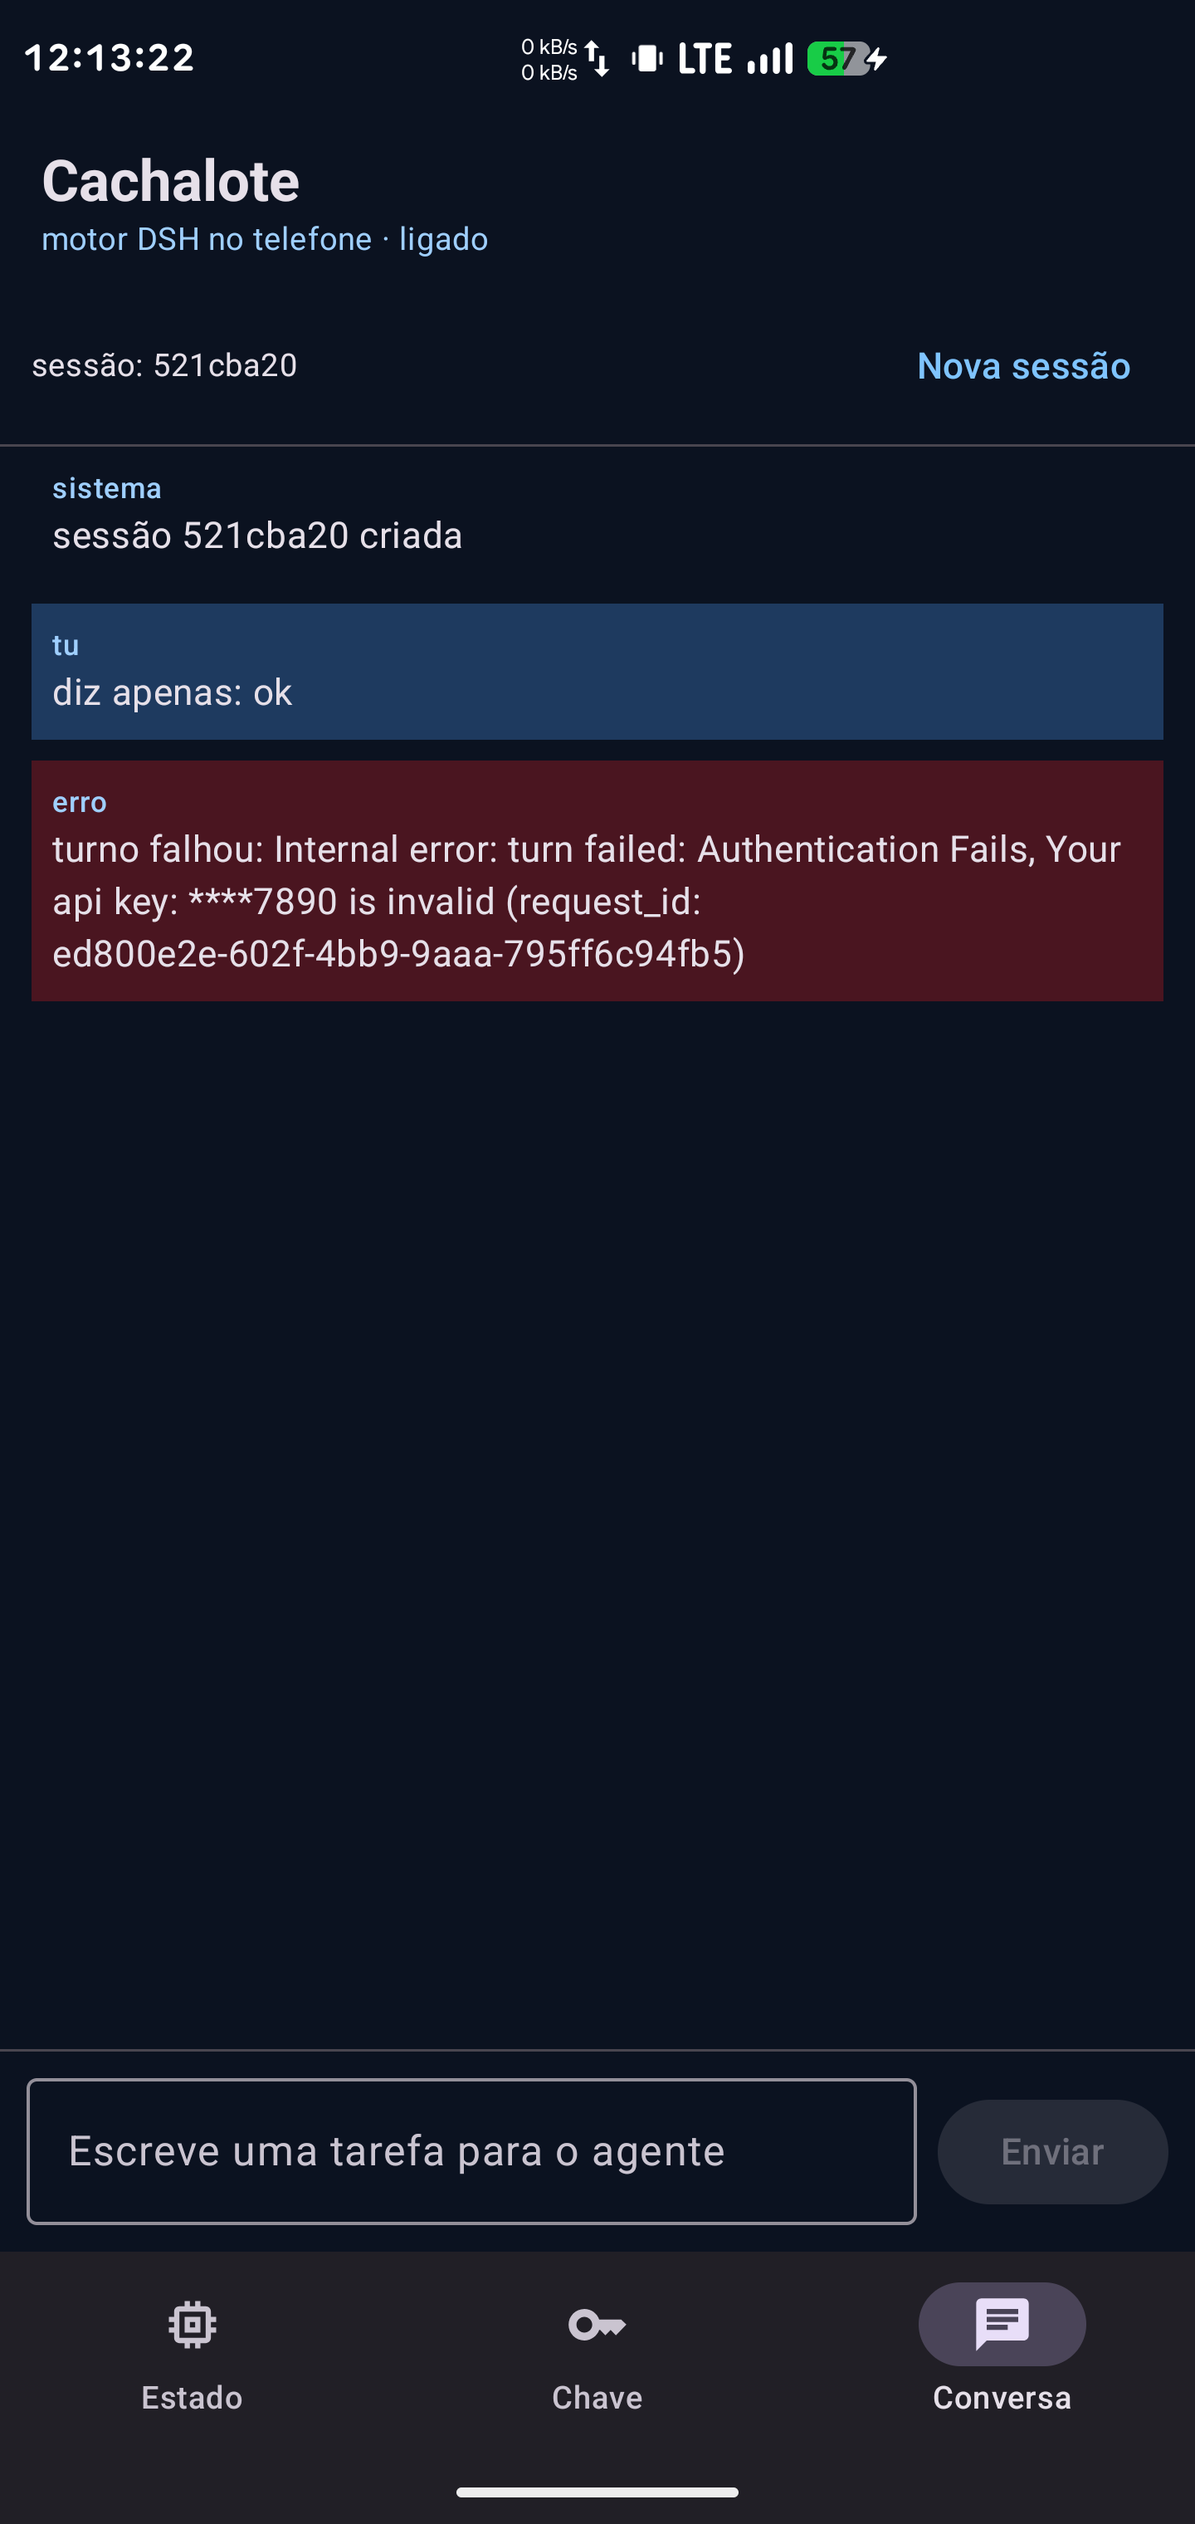
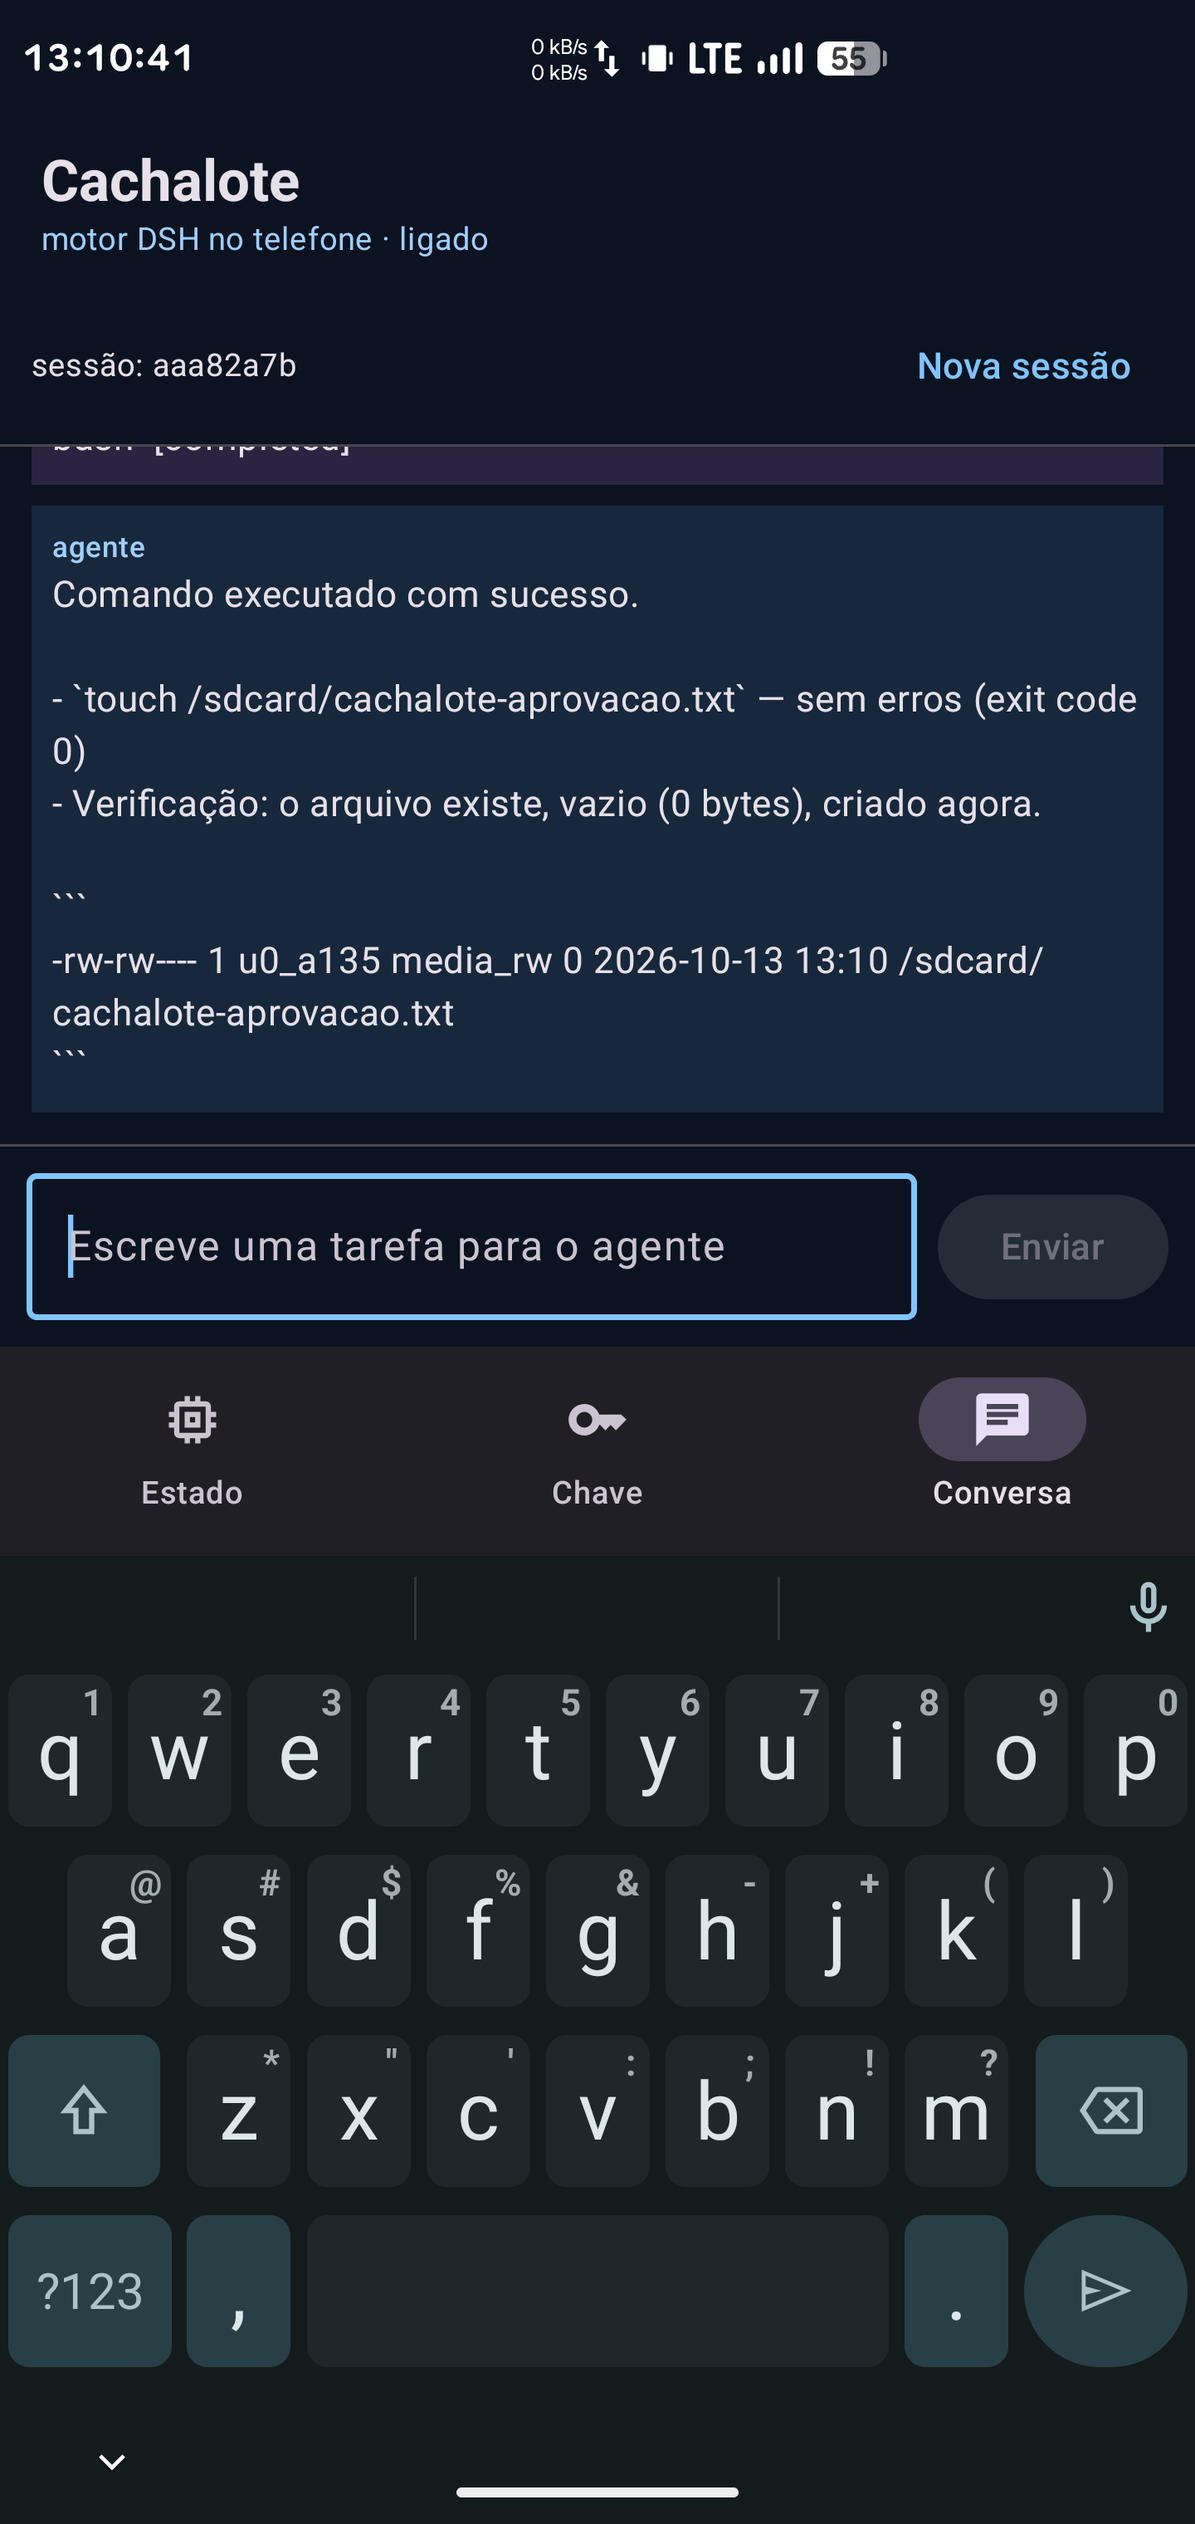
F3 (inicio): aprovacoes na UI, teclado e achados de seguranca
- cliente: distinguir pedidos do motor (id+method) de respostas — os pedidos de
  aprovacao eram descartados em silencio e o turno ficava pendurado
- UI: dialogo de autorizacao com as opcoes vindas do motor + botao Parar (session/cancel)
- fix UX: imePadding/setDecorFitsSystemWindows (o botao Enviar ficava sob o teclado) e
  Enter/imeAction=Send a enviar
- verificacao real: sessao criada, ferramenta bash executada, ficheiro criado em /sdcard
- achado: no Android as aprovacoes de bash nao disparam (sem sandbox que falhe nao ha
  escalonamento) — reforca D10; a barreira real tem de ser na ponte host.*
- knowledge-android.md: itens 50-52

diff --git a/app/app/src/main/java/dev/ricardopimentel/cachalote/MainActivity.kt b/app/app/src/main/java/dev/ricardopimentel/cachalote/MainActivity.kt
@@ -12,6 +12,8 @@ import androidx.compose.foundation.layout.Spacer
 import androidx.compose.foundation.layout.fillMaxSize
 import androidx.compose.foundation.layout.fillMaxWidth
 import androidx.compose.foundation.layout.height
+import androidx.compose.foundation.layout.heightIn
+import androidx.compose.foundation.layout.imePadding
 import androidx.compose.foundation.layout.padding
 import androidx.compose.foundation.layout.width
 import androidx.compose.foundation.lazy.LazyColumn
@@ -21,10 +23,12 @@ import androidx.compose.foundation.rememberScrollState
 import androidx.compose.foundation.text.KeyboardActions
 import androidx.compose.foundation.text.KeyboardOptions
 import androidx.compose.foundation.verticalScroll
+import androidx.compose.material3.Text
 import androidx.compose.material.icons.Icons
 import androidx.compose.material.icons.filled.Chat
 import androidx.compose.material.icons.filled.Key
 import androidx.compose.material.icons.filled.Memory
+import androidx.compose.material3.AlertDialog
 import androidx.compose.material3.Button
 import androidx.compose.material3.Card
 import androidx.compose.material3.CardDefaults
@@ -58,12 +62,16 @@ import androidx.compose.ui.text.font.FontWeight
 import androidx.compose.ui.text.input.ImeAction
 import androidx.compose.ui.text.input.PasswordVisualTransformation
 import androidx.compose.ui.text.input.VisualTransformation
+import androidx.compose.ui.unit.max
 import androidx.compose.ui.unit.dp
 import androidx.lifecycle.viewmodel.compose.viewModel
 
 class MainActivity : ComponentActivity() {
     override fun onCreate(savedInstanceState: Bundle?) {
         super.onCreate(savedInstanceState)
+        // Sem isto, o Compose desenha por baixo do teclado e o botão Enviar fica
+        // inalcançável com o teclado aberto (apanhado em teste de UI).
+        androidx.core.view.WindowCompat.setDecorFitsSystemWindows(window, false)
         setContent { CachaloteApp() }
     }
 }
@@ -85,6 +93,7 @@ fun CachaloteApp() {
             LaunchedEffect(Unit) { vm.refreshStatus() }
 
             Scaffold(
+                modifier = Modifier.imePadding(),
                 bottomBar = {
                     NavigationBar {
                         NavigationBarItem(
@@ -110,6 +119,7 @@ fun CachaloteApp() {
             ) { pad ->
                 Column(modifier = Modifier.padding(pad).fillMaxSize()) {
                     Header(vm, busy = vm.busy)
+                    vm.approval?.let { ap -> ApprovalDialog(vm, ap) }
                     if (vm.error.isNotBlank()) {
                         Card(
                             modifier = Modifier.fillMaxWidth().padding(12.dp),
@@ -145,6 +155,44 @@ private fun Header(vm: MainViewModel, busy: Boolean) {
         }
         if (busy) CircularProgressIndicator(modifier = Modifier.width(22.dp).height(22.dp), strokeWidth = 2.dp)
     }
+}
+
+/**
+ * O motor pede autorização antes de uma operação sensível (ACP `session/request_permission`).
+ * As opções vêm do motor (permitir uma vez / sempre / recusar); mostramo-las tal como vêm.
+ */
+@Composable
+private fun ApprovalDialog(vm: MainViewModel, ap: PendingApproval) {
+    AlertDialog(
+        onDismissRequest = { vm.answerApproval(null) },
+        title = { Text("Autorização") },
+        text = {
+            Column {
+                Text(ap.title, fontWeight = FontWeight.SemiBold)
+                if (ap.detail.isNotBlank()) {
+                    Spacer(Modifier.height(8.dp))
+                    Text(
+                        ap.detail,
+                        fontFamily = FontFamily.Monospace,
+                        style = MaterialTheme.typography.bodySmall,
+                        modifier = Modifier.heightIn(max = 260.dp).verticalScroll(rememberScrollState()),
+                    )
+                }
+            }
+        },
+        confirmButton = {
+            Column(verticalArrangement = Arrangement.spacedBy(6.dp)) {
+                ap.options.forEach { (optionId, name) ->
+                    Button(onClick = { vm.answerApproval(optionId) }, modifier = Modifier.fillMaxWidth()) {
+                        Text(name)
+                    }
+                }
+            }
+        },
+        dismissButton = {
+            TextButton(onClick = { vm.answerApproval(null) }) { Text("Recusar o turno") }
+        },
+    )
 }
 
 @Composable
@@ -316,12 +364,21 @@ private fun ChatScreen(vm: MainViewModel) {
                 placeholder = { Text("Escreve uma tarefa para o agente") },
                 modifier = Modifier.weight(1f),
                 maxLines = 4,
+                keyboardOptions = KeyboardOptions(imeAction = ImeAction.Send),
+                keyboardActions = KeyboardActions(onSend = {
+                    val t = input; input = ""; if (t.isNotBlank()) vm.send(t)
+                }),
             )
             Spacer(Modifier.width(8.dp))
-            Button(
-                onClick = { val t = input; input = ""; vm.send(t) },
-                enabled = !vm.busy && input.isNotBlank(),
-            ) { Text("Enviar") }
+            Column {
+                Button(
+                    onClick = { val t = input; input = ""; vm.send(t) },
+                    enabled = !vm.busy && input.isNotBlank(),
+                ) { Text("Enviar") }
+                if (vm.busy) {
+                    TextButton(onClick = { vm.cancelTurn() }) { Text("Parar") }
+                }
+            }
         }
     }
 }

diff --git a/app/app/src/main/java/dev/ricardopimentel/cachalote/MainViewModel.kt b/app/app/src/main/java/dev/ricardopimentel/cachalote/MainViewModel.kt
@@ -10,6 +10,14 @@ import androidx.lifecycle.viewModelScope
 import kotlinx.coroutines.launch
 import org.json.JSONObject
 
+/** Pedido de aprovação vindo do motor (ACP `session/request_permission`). */
+data class PendingApproval(
+    val requestId: Int,
+    val title: String,
+    val detail: String,
+    val options: List<Pair<String, String>>, // optionId -> nome visível
+)
+
 data class ChatLine(
     val role: String,          // user | assistant | thought | tool | error | system
     val text: String,
@@ -32,6 +40,7 @@ class MainViewModel(app: Application) : AndroidViewModel(app) {
     var agentInfo by mutableStateOf("")
     var sessionId by mutableStateOf<String?>(null)
     var connected by mutableStateOf(false)
+    var approval by mutableStateOf<PendingApproval?>(null)
 
     val transcript = mutableStateListOf<ChatLine>()
 
@@ -53,6 +62,9 @@ class MainViewModel(app: Application) : AndroidViewModel(app) {
         }
         viewModelScope.launch {
             controller.client.events.collect { onEvent(it) }
+        }
+        viewModelScope.launch {
+            controller.client.requests.collect { onRequest(it) }
         }
         viewModelScope.launch {
             controller.client.connected.collect { connected = it }
@@ -172,6 +184,54 @@ class MainViewModel(app: Application) : AndroidViewModel(app) {
                 }
             }
         }
+    }
+
+    /** Pedido do motor: hoje só o de aprovação, que exige resposta do utilizador. */
+    private fun onRequest(obj: JSONObject) {
+        if (obj.optString("method") != "session/request_permission") {
+            // Desconhecido mas com id: responder "cancelled" para não pendurar o turno.
+            viewModelScope.launch {
+                runCatching { controller.client.respond(obj.optInt("id"), JSONObject().put("outcome", "cancelled")) }
+            }
+            return
+        }
+        val params = obj.optJSONObject("params") ?: return
+        val tool = params.optJSONObject("toolCall")
+        val opts = params.optJSONArray("options")
+        val list = ArrayList<Pair<String, String>>()
+        if (opts != null) {
+            for (i in 0 until opts.length()) {
+                val o = opts.optJSONObject(i) ?: continue
+                list.add(o.optString("optionId") to o.optString("name", o.optString("kind")))
+            }
+        }
+        approval = PendingApproval(
+            requestId = obj.optInt("id"),
+            title = tool?.optString("title") ?: "o agente pede autorização",
+            detail = tool?.opt("rawInput")?.toString()?.take(600) ?: "",
+            options = list,
+        )
+        transcript.add(ChatLine("system", "o agente pede autorização: " + (tool?.optString("title") ?: "?")))
+    }
+
+    /** Resposta ao pedido de aprovação. `optionId` nulo = cancelar o turno. */
+    fun answerApproval(optionId: String?) = run("aprovação") {
+        val req = approval ?: return@run
+        approval = null
+        val outcome = if (optionId == null) {
+            JSONObject().put("outcome", "cancelled")
+        } else {
+            JSONObject().put("outcome", JSONObject().put("outcome", "selected").put("optionId", optionId))
+        }
+        controller.client.respond(req.requestId, outcome)
+        transcript.add(ChatLine("system", if (optionId == null) "pedido recusado" else "autorizado"))
+    }
+
+    /** Interrompe o turno em curso (ACP `session/cancel`). */
+    fun cancelTurn() = run("cancelar") {
+        val sid = sessionId ?: return@run
+        controller.client.notify("session/cancel", JSONObject().put("sessionId", sid))
+        transcript.add(ChatLine("system", "turno cancelado"))
     }
 
     private fun textOf(update: JSONObject): String =

diff --git a/app/app/src/main/java/dev/ricardopimentel/cachalote/CachaloteClient.kt b/app/app/src/main/java/dev/ricardopimentel/cachalote/CachaloteClient.kt
@@ -56,6 +56,10 @@ class CachaloteClient {
     private val _connected = MutableStateFlow(false)
     val connected: StateFlow<Boolean> = _connected
 
+    /** Pedidos que vêm DO motor (ex.: `session/request_permission`): o cliente tem de responder. */
+    private val _requests = MutableSharedFlow<JSONObject>(extraBufferCapacity = 64)
+    val requests: SharedFlow<JSONObject> = _requests
+
     suspend fun connect(port: Int, token: String, timeoutMs: Int = 15_000): JSONObject =
         withContext(Dispatchers.IO) {
             disconnect()
@@ -97,6 +101,26 @@ class CachaloteClient {
         }
     }
 
+    /** Responde a um pedido do motor (o `id` vem no pedido). */
+    suspend fun respond(id: Int, result: JSONObject) = withContext(Dispatchers.IO) {
+        writeLock.withLock {
+            val w = writer ?: error("sem ligação ao daemon")
+            w.write(JSONObject().put("jsonrpc", "2.0").put("id", id).put("result", result).toString())
+            w.write("\n")
+            w.flush()
+        }
+    }
+
+    /** Envia uma notificação ao motor (ex.: `session/cancel`). */
+    suspend fun notify(method: String, params: JSONObject = JSONObject()) = withContext(Dispatchers.IO) {
+        writeLock.withLock {
+            val w = writer ?: error("sem ligação ao daemon")
+            w.write(JSONObject().put("jsonrpc", "2.0").put("method", method).put("params", params).toString())
+            w.write("\n")
+            w.flush()
+        }
+    }
+
     /** Como [call], mas devolve o `result` e transforma `error` em excepção. */
     suspend fun callForResult(
         method: String,
@@ -120,10 +144,13 @@ class CachaloteClient {
                     if (line.isBlank()) continue
                     val obj = runCatching { JSONObject(line) }.getOrNull() ?: continue
                     val hasId = obj.has("id") && !obj.isNull("id")
-                    if (hasId) {
-                        pending.remove(obj.optInt("id", -1))?.complete(obj)
-                    } else {
-                        _events.tryEmit(obj)
+                    when {
+                        // ⚠ Um frame com id E method é um PEDIDO do motor, não uma resposta.
+                        // Tratá-lo como resposta (como fazíamos) descartava os pedidos de
+                        // aprovação em silêncio e o turno ficava pendurado.
+                        hasId && obj.has("method") -> _requests.tryEmit(obj)
+                        hasId -> pending.remove(obj.optInt("id", -1))?.complete(obj)
+                        else -> _events.tryEmit(obj)
                     }
                 }
             }

diff --git a/docs/knowledge-android.md b/docs/knowledge-android.md
@@ -402,3 +402,41 @@ Se algum dia testarmos em emulador: precisa de `-writable-system`, das `.so` de 
   ⚠ O erro inicial aponta para a biblioteca nativa, mas a causa real é a permissão de escrita
   no `.lock` — ler o `--stacktrace` até ao fim poupa muito tempo.
 - **Origem:** **[LOCAL]**.
+
+---
+
+## O. F3: aprovações, teclado e a verdade incómoda do sandbox
+
+### 50. Um pedido do motor é um frame com `id` **e** `method`
+- **Sintoma:** o turno fica pendurado quando o agente pede autorização; nenhum erro visível.
+- **Causa:** o cliente tratava **qualquer** frame com `id` como resposta a uma chamada sua
+  (`pending.remove(id)`) — e um `session/request_permission` tem `id` **e** `method`. Era
+  descartado em silêncio, e o motor ficava à espera de resposta.
+- **Solução:** distinguir os três casos: `id+method` = **pedido** (responder com
+  `{result:{outcome:{outcome:"selected",optionId}}}` ou `{outcome:{outcome:"cancelled"}}`);
+  `id` só = resposta; sem `id` = notificação.
+- **Origem:** **[LOCAL]** (implementado e testado).
+
+### 51. Compose por baixo do teclado (e o Enter que não envia)
+- **Sintoma:** com o teclado aberto, o botão *Enviar* fica inalcançável — os toques caem no
+  teclado; e premir Enter não faz nada.
+- **Causa:** sem tratar os insets do IME (o `adjustResize` do manifest não chega em Compose
+  com edge-to-edge) e sem `KeyboardActions`.
+- **Solução:** `WindowCompat.setDecorFitsSystemWindows(window, false)` + `Modifier.imePadding()`
+  no `Scaffold`, e `KeyboardOptions(imeAction = ImeAction.Send)` +
+  `KeyboardActions(onSend = …)` no campo.
+- **Origem:** **[LOCAL]**.
+
+### 52. ⚠ No Android as aprovações de `bash` **não disparam** (consequência de D10)
+- **Observação:** pedi ao agente para executar `touch /sdcard/…` (fora do workspace). Com o
+  preset `workspace-write` e `approval: ask`, **não houve pedido de autorização** — o comando
+  correu e devolveu "Comando executado com sucesso".
+- **Porquê:** o fluxo de aprovação do DSH é accionado pelo *escalonamento*: o comando falha
+  porque o sandbox o impede (Landlock), e só então o `tool-bash` pede autorização para um modo
+  mais largo. **No Android não há sandbox a falhar**, logo nunca há escalonamento nem pedido.
+- **Consequência prática:** enquanto o motor correr como root, "workspace-write" é uma
+  declaração sem força — a UI de aprovação existe (item 50) e serve para os casos em que o
+  motor pede, mas **não é a barreira** para escrita fora do workspace.
+- **O que fazer (F3):** a barreira tem de ser nossa — impor allowlist de caminhos e auditoria
+  na ponte `host.*`, ou (no flavor sem privilégios) deixar o sandbox do Android ser o limite.
+- **Origem:** **[LOCAL]** (teste ponta-a-ponta com o agente real).
